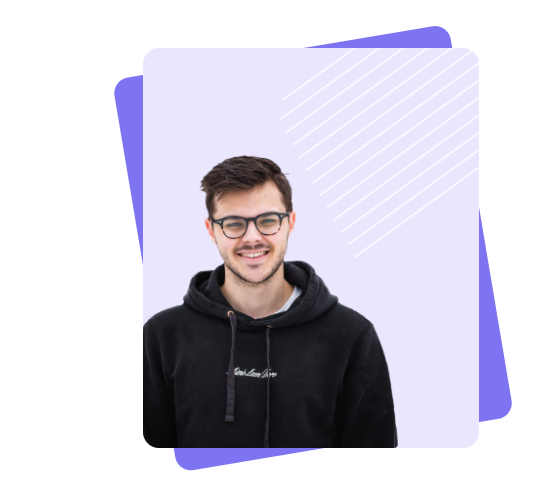
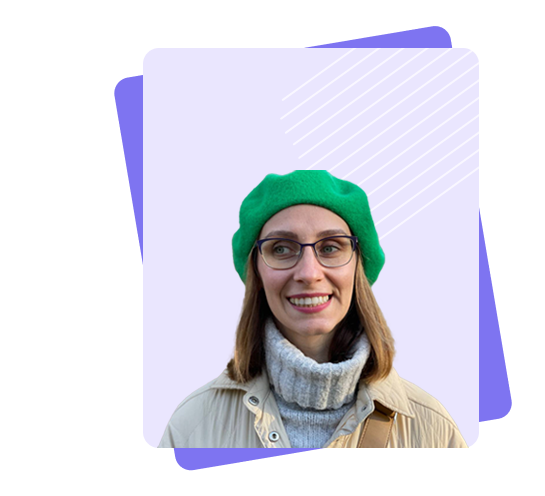
Rebrending main photo and education section

Changed region(s): [[0.2495, 0.3024, 0.8734, 0.9073]]

diff --git a/index.html b/index.html
@@ -45,9 +45,14 @@
                 <div class="main-section_content">
                 <div class="main_section_title main-container">
                     <div class="title_lable">MY NAME IS</div>
-                    <div class="title">Alex <span>Smith</span></div>
-                    <div class="title_value title-text">Creative front-end developer with more than +5 years of experience in enterprise companies and startups. Proficient in JavaScript, Angular, and React.
-                         Passionate about UI/UX</div>
+                    <div class="title">Hanna <span>Nesterova</span></div>
+                    <div class="title_value title-text">
+                        I was born in Ukraine and lived there until a spring 2022. Then I moved to Poland. I started studying 
+                        front-end development in the most difficult period of my life,
+                         when I lost my country and my home, and this study not only saved me, but absorbed me completely,
+                          while studying, I seemed to close myself off from the outside world and get into a wonderful world, 
+                          like 'Alice in Wonderland', who could create something unsurpassed from unknown codes and hashes and immediately see it on her screen.
+                           I'm passionate to combine design and technical knowledge. </div>
                     <div class="main-section-social">
                         <a href="#" class="social_link icon-Vector"></a>
                         <a href="#" class="social_link icon-Vector-1"></a>
@@ -72,21 +77,21 @@
                     <div class="servise_section-columns">
                       <div class="service-column">
                         <p class=" icon-column icon-shape-Stroke"></p>
-                        <p class="column-pretitle">UI/UX Design</p>
+                        <p class="column-pretitle">HTML/ CSS/ SASS</p>
                         <p class="column-title">Turn what you have in mind of a digital product into reality.
                         For any platform you consider.</p>
                       </div>
 
                       <div class="service-column">
                         <p class=" icon-column icon-shape-Stroke"></p>
-                        <p class="column-pretitle">Application Development</p>
+                        <p class="column-pretitle">Java Script/ React</p>
                         <p class="column-title">Standard designing, building, and implementing your applications with documentation.
                         </p>
                       </div>
 
                       <div class="service-column">
                         <p class=" icon-column icon-shape-Stroke"></p>
-                        <p class="column-pretitle">Web Development</p>
+                        <p class="column-pretitle">GIT/ RWD</p>
                         <p class="column-title">Create and maintain your websites and also take care of its performance and traffic capacity.</p>
                       </div>
                     </div>
@@ -328,7 +333,7 @@
             </div>
         </section>
 
-        <section class="blog">
+        <!-- <section class="blog">
             <div class="container">
                 <div class="blog-section_content">
                     <div class="servise_section_title servise-container">
@@ -368,6 +373,68 @@
                     </div>
                 </div>
             </div>
+        </section> -->
+
+        <section class="education">
+            <div class="container">
+                <div class="education-main">
+                    <div class="title_lable">LEARNING PATH</div>
+                    <div class="title">Education & Skills </div>
+                </div>
+
+                <div class="skills-body">
+                    <div class="skills_timeline timeline">
+                        <div class="timeline_items">
+                            <div class="timeline_item"> "Kodilla" School<br> (Poland)</div>
+                            <div class="timeline_tex">Certificate in Bootcamp Front-end </div>
+                            <div class="timeline_date">2023</div>
+                        </div>
+
+                        <div class="timeline_items">
+                            <div class="timeline_item">"Can She Code" School<br> (Monreal,Canada)</div>
+                            <div class="timeline_tex">Certificate in Front-end Web Dewelopment</div>
+                            <div class="timeline_date">2023</div>
+                        </div>
+
+                        <div class="timeline_items">
+                            <div class="timeline_item">"Can She Code" School<br> (Monreal,Canada)</div>
+                            <div class="timeline_tex">Certificate in Bootstrap-5</div>
+                            <div class="timeline_date">2022</div>
+                        </div>
+                    </div>
+                    <div class="skills_content content-skills">
+                        <div class="content_skills-text text">
+                            <p>For 1,5 years, I have been continuously learning in the field of front-end and experimenting with new technologies and frameworks, and here you can see a summary of my skills.I'm on my way for studying React now.
+                                I am looking forward the opportunity to realise your project!
+                            </p>
+                        </div>
+                        <div class="content_skills-items">
+                            <div class="content_skills-item">
+                                <div class="content_skills-lable">HTML/ CSS</div>
+                                <div class="content_skills-line">
+                                    <span style="width: 286px;"></span>
+                                </div>
+                            </div>
+
+                            <div class="content_skills-item">
+                                <div class="content_skills-lable">Javascript</div>
+                                <div class="content_skills-line">
+                                    <span style="width: 200px;"></span>
+                                </div>
+                            </div>
+
+                            <div class="content_skills-item">
+                                <div class="content_skills-lable">React</div>
+                                <div class="content_skills-line">
+                                    <span style="width: 120px;"></span>
+                                </div>
+                            </div>
+                        </div>
+                    </div>
+                    <!-- <div class="skills_column"></div>
+                    <div class="skills_column"></div> -->
+                </div>
+            </div>
         </section>
 
         <section class="clients">
@@ -402,69 +469,9 @@
             </div>
         </section>
 
-        <section class="education">
-            <div class="container">
-                <div class="education-main">
-                    <div class="title_lable">LEARNING PATH</div>
-                    <div class="title">Education & Skills </div>
-                </div>
-
-                <div class="skills-body">
-                    <div class="skills_timeline timeline">
-                        <div class="timeline_items">
-                            <div class="timeline_item">Kingston university</div>
-                            <div class="timeline_tex">Master's degree - Software Engineering</div>
-                            <div class="timeline_date">2019 - 2021</div>
-                        </div>
-
-                        <div class="timeline_items">
-                            <div class="timeline_item">Kingston university</div>
-                            <div class="timeline_tex">Bachelor's degree - Computer Engineering</div>
-                            <div class="timeline_date">2015 - 2019</div>
-                        </div>
-
-                        <div class="timeline_items">
-                            <div class="timeline_item">Westminster School</div>
-                            <div class="timeline_tex">Diploma's degree - Mathematics</div>
-                            <div class="timeline_date">2013 - 2015</div>
-                        </div>
-                    </div>
-                    <div class="skills_content content-skills">
-                        <div class="content_skills-text text">
-                            <p>For 5+ years, I have been continuously learning in the field of front-end and experimenting with new technologies and frameworks, and here you can see a summary of my skills.
-                            </p>
-                        </div>
-                        <div class="content_skills-items">
-                            <div class="content_skills-item">
-                                <div class="content_skills-lable">React</div>
-                                <div class="content_skills-line">
-                                    <span style="width: 286px;"></span>
-                                </div>
-                            </div>
-
-                            <div class="content_skills-item">
-                                <div class="content_skills-lable">Angular</div>
-                                <div class="content_skills-line">
-                                    <span style="width: 350px;"></span>
-                                </div>
-                            </div>
-
-                            <div class="content_skills-item">
-                                <div class="content_skills-lable">Javascript</div>
-                                <div class="content_skills-line">
-                                    <span style="width: 352px;"></span>
-                                </div>
-                            </div>
-                        </div>
-                    </div>
-                    <!-- <div class="skills_column"></div>
-                    <div class="skills_column"></div> -->
-                </div>
-            </div>
-        </section>
-
         <section class="section_form">
             <div class="container contacts-container">
+                <h3>Contact me:</h3>
                 <div class="contacts_content">
                     <form
                         action="https://formspree.io/f/xpzevwjo"
@@ -494,7 +501,7 @@
                             </div>
                             <div class="list_contacts-body">
                                 <div class="list_contacts-title">Address</div>
-                                <div class="list_contacts-text">3424 Layman Avenue, Fayetteville, NC</div>
+                                <div class="list_contacts-text">Poland, Wroclaw</div>
                             </div>
                         </li>
                         <li class="list_contacts-item">
@@ -503,7 +510,7 @@
                             </div>
                             <div class="list_contacts-body">
                                 <div class="list_contacts-title">Phone</div>
-                                 <a href="tel:5014141541" class="list_contacts-text"> (501) 414-1541</a>
+                                 <a href="tel:792693385" class="list_contacts-text"> 792 693 385</a>
                             </div>
                         </li>
                         <li class="list_contacts-item">
@@ -512,7 +519,7 @@
                             </div>
                             <div class="list_contacts-body">
                                 <div class="list_contacts-title">E-Mail</div>
-                                <a href="mailto:evchapter@gmail.com" class="list_contacts-text">devchapter@gmail.com</a>
+                                <a href="mailto:nesterova.hanna@gmail.com" class="list_contacts-text">nesterova.hanna@gmail.com</a>
                             </div>
                         </li>
                     </ul>
@@ -529,7 +536,7 @@
                     <a href="#" class="social_link icon-Vector-2"></a>
                     <a href="#" class="social_link icon-Vector-3"></a>
                 </div>
-                <p class="footer-text">© 2022  -  DevChapter</p>
+                <p class="footer-text">© 2023  -  Hanna Nesterova</p>
             </div>
         </footer>
     </div>

diff --git a/index.js b/index.js
@@ -54,9 +54,9 @@ body.classList.toggle('lock');
 
 /*SLIDER*/
 
-const productContainers = [...document.querySelectorAll('.product-container')];
-const nxtBtn = [...document.querySelectorAll('.nexBtn')];
-const preBtn = [...document.querySelectorAll('.preBtn')];
+const productContainers = document.querySelectorAll('.product-container');
+const nxtBtn = document.querySelectorAll('.nexBtn');
+const preBtn = document.querySelectorAll('.preBtn');
 
 productContainers.forEach((item, i) => {
     let containerDimensions = item.getBoundingClientRect();
